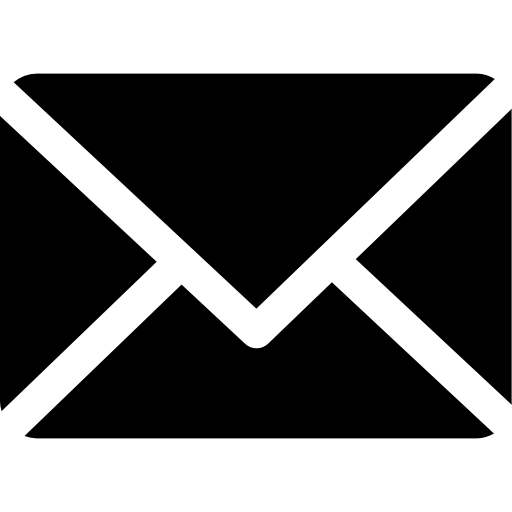
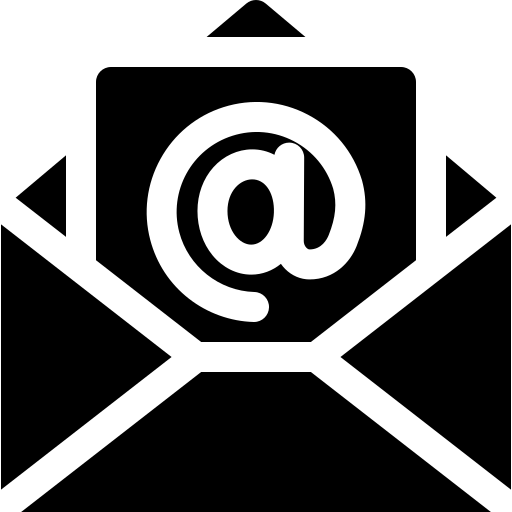
adding animations and striped line down the center.  going for street theme.

diff --git a/src/components/Home.jsx b/src/components/Home.jsx
@@ -4,6 +4,13 @@ import "./styling/Home.css"
 function Home() {
   return (
     <div className="home">
+      <div class="dashed-line"> 
+        </div>
+        <div class="wrapper">
+  <div class="blue-sedan-move">
+    <img class = "blue-sedan" src= {require("./resources/car.png")}/>
+  </div>
+</div>
       <div class="data-container">
         <div class="row align-items-center my-5">
           <div class="col-lg-4">
@@ -19,26 +26,26 @@ function Home() {
               Hi, I'm Antony.  I'm studying Industiral Engineering and Computer Science @ UIUC.  Interested in web3, electric vehicles, and good design.
             </p>
             <p>
-             Currently working as a freelance developer on a variety of projects.  Currently studying abroad in Madrid and documenting my travels.
+             Currently working as a freelance developer on a variety of projects. 
             </p>
             <div className="row align-items-center">
-              <div className= "col-lg-1">
+              <div className= "col-lg-3">
               <img
                 class="social"
                 src= {require("./resources/twitter-sign.png")}
                 alt=""
               />
               </div>
-              <div className= "col-lg-1">
+              <div className= "col-lg-3">
               <img
                 class="social"
                 src= {require("./resources/github.png")}
                 alt=""
               />
               </div>
-              <div className= "col-lg-1">
+              <div className= "col-lg-3">
               <img
-                class="email"
+                class="social"
                 src= {require("./resources/email.png")}
                 alt=""
               />
@@ -47,6 +54,11 @@ function Home() {
           </div>
         </div>
       </div>
+      <div class="wrapper">
+  <div class="plane-move">
+    <img class = "plane" src= {require("./resources/plane.png")}/>
+  </div>
+</div>
     </div>
   );
 }

diff --git a/src/components/styling/Home.css b/src/components/styling/Home.css
@@ -27,7 +27,7 @@ h1 {
 }
 
 .social {
-    max-height: 20px;
+    max-height: 30px;
 }
 
 .socials-container {
@@ -39,3 +39,55 @@ h1 {
     height: 24px;
     width: 26px;
 }
+
+.plane {
+    transform: rotate(-135deg);
+    max-height: 100px;
+    z-index: -2;
+    margin-top: 400px;
+}
+
+.plane-move{
+    position: absolute;
+    width: 100px;
+    z-index: 10;
+    right: -15%;
+    animation: movePlane 24s infinite;
+  }
+
+  @keyframes movePlane{
+    30% {
+    right: -15%;
+    }
+    80% {
+    right: 12%;
+    }
+    100% {
+    right: 160%;
+    }
+  }
+
+.blue-sedan-move{
+    position: absolute;
+    width: 100px;
+    z-index: 10;
+    left: -10%;
+    animation: moveBus 16s infinite;
+  }
+  
+  @keyframes moveBus{
+    30% {
+    left: -10%;
+    }
+    100% {
+    left: 110%;
+    }
+  }
+  
+
+  .blue-sedan {
+      transform: rotate(90deg);
+      max-height: 100px;
+      z-index: -2;
+      margin-bottom: 35px;
+  }

diff --git a/src/index.css b/src/index.css
@@ -6,9 +6,40 @@ body {
   background-color: #555555;
   justify-content: center;
   justify-items: center;
+  overflow: hidden;
 }
 
 code {
   font-family: source-code-pro, Menlo, Monaco, Consolas, 'Courier New',
     monospace;
+}
+
+.wrapper{
+  position: absolute;
+  width: 100%;
+  z-index: -5;
+}
+
+.dashed-line{
+  align-self: center;
+  position: absolute;
+  z-index: -2;
+  border-top: 12px dashed #e0dd19;
+  color: #ffffff;
+  background-color: transparent;
+  height: 2px;
+  width: 100%;
+  margin-top: 0vh;
+}
+
+.dashed-line2{
+  align-self: center;
+  position: absolute;
+  z-index: -1;
+  border-top: 12px dashed #e0dd19;
+  color: #ffffff;
+  background-color: transparent;
+  height: 2px;
+  width: 100%;
+  margin-top: 0vh;
 }

diff --git a/src/components/styling/Navigation.css b/src/components/styling/Navigation.css
@@ -9,9 +9,10 @@
 .header {
     justify-content: center;
     text-align: center;
-    margin-top: 20px;
+    margin-top: 10px;
     margin-bottom: 0px;
     padding-bottom: 0px;
+    z-index: 10;
 }
 
 .navbar {
